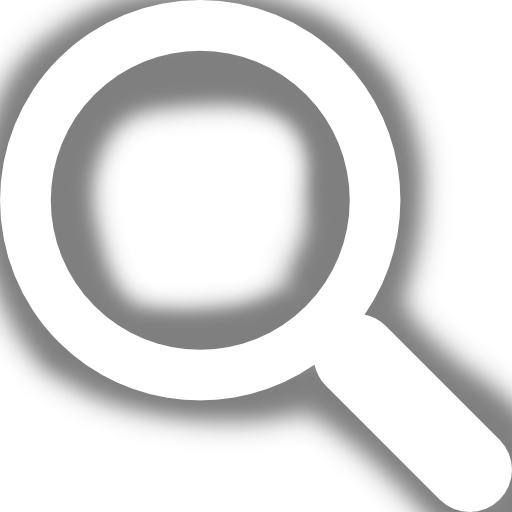
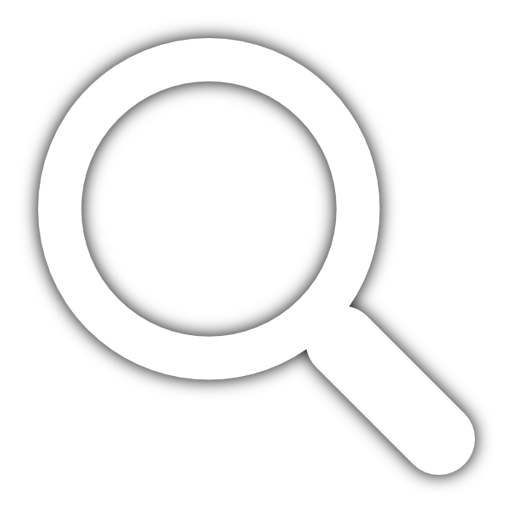
Areo Image Changes

diff --git a/settings/changelog.html b/settings/changelog.html
@@ -23,6 +23,9 @@
 						<li>
 							Fixed delay when resetting update notification	
 						</li>
+						<li>
+							Improved images for areo theme
+						</li>
 					</ul>
 				</li>
 			</ul>
